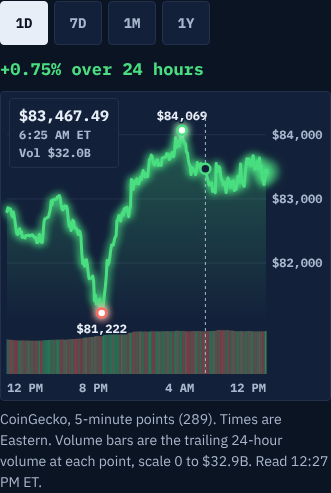
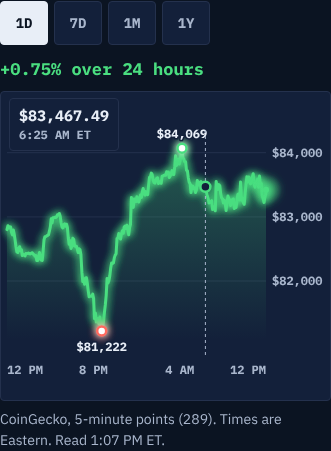
Sprint 6.4, Jack's four fixes: volume on 1M and 1Y only, smooth averages labeled in the gutter, Top 100 stamp read, clear gap between price and 24h pill

diff --git a/site/assets/coinchart.js b/site/assets/coinchart.js
@@ -8,9 +8,11 @@
      1Y  days=365  daily points      (~366)   one request serves 1M and 1Y
 
    The 50-day and 200-day lines are averages of DAILY closes, so they come from the 366-day
-   series and are drawn on 1M and 1Y only, where they mean something. Volume is the source's
-   trailing-24-hour volume at each point, as muted bars under the price on their own scale,
-   up or down by that point's price against the one before.
+   series and are drawn on 1M and 1Y only, where they mean something. They are drawn as one
+   smooth curve through the daily averages and named in the right gutter beside the price
+   axis, never on the line. Volume bars are drawn on 1M and 1Y only, where each bar is a
+   day's volume; on 1D and 7D the source gives a trailing 24-hour figure at every point, so
+   every bar would be the same height and the window shows none.
 
    The line is Program 7's one style (glow.py): 3 px, a glow, an area fill, the high and low
    as white dots with mono labels, a halo on the last point. It is colored by the chosen
@@ -36,6 +38,7 @@
   if (!id || !stage || !box || !readout || !tabs.length) return;
 
   var DAY = 86400000;
+  var DAILY = { '1m': true, '1y': true };                 /* the windows whose volume is a day's volume */
   var RANGES = {
     '1d': { fetch: 1, label: '24 hours', spacing: '5-minute' },
     '7d': { fetch: 7, label: '7 days', spacing: 'hourly' },
@@ -57,7 +60,6 @@
   }
   function compact(v) {
     var a = Math.abs(v);
-    if (a >= 1e12) return '$' + (v / 1e12).toFixed(2) + 'T';
     if (a >= 1e9) return '$' + (v / 1e9).toFixed(1) + 'B';
     if (a >= 1e6) return '$' + (v / 1e6).toFixed(1) + 'M';
     if (a >= 1e3) return '$' + (v / 1e3).toFixed(0) + 'K';
@@ -80,6 +82,20 @@
     if (r === '1d') return fmtDate(ms, { hour: 'numeric', minute: '2-digit' }) + ' ET';
     if (r === '7d') return fmtDate(ms, { month: 'short', day: 'numeric', hour: 'numeric' }) + ' ET';
     return fmtDate(ms, { month: 'short', day: 'numeric', year: 'numeric' }, true);
+  }
+  function last(a) { for (var i = a.length - 1; i >= 0; i--) if (a[i] !== null) return a[i]; return null; }
+  /* a smooth path through points, monotone in y (Fritsch-Carlson), so it never overshoots a turn */
+  function smooth(q) {
+    var n = q.length, h = [], m = [], t = [], i, f = function (v) { return v.toFixed(1); }, d = 'M' + f(q[0][0]) + ',' + f(q[0][1]);
+    for (i = 0; i < n - 1; i++) { h.push(q[i + 1][0] - q[i][0] || 1e-6); m.push((q[i + 1][1] - q[i][1]) / h[i]); }
+    t[0] = m[0]; t[n - 1] = m[n - 2];
+    for (i = 1; i < n - 1; i++) t[i] = m[i - 1] * m[i] <= 0 ? 0 : (m[i - 1] + m[i]) / 2;
+    for (i = 0; i < n - 1; i++) {
+      var a = t[i] / m[i], b = t[i + 1] / m[i], s = a * a + b * b, k = s > 9 ? 3 / Math.sqrt(s) : 1, w = h[i] / 3;
+      d += 'C' + f(q[i][0] + w) + ',' + f(q[i][1] + k * a * m[i] * w) + ' ' + f(q[i + 1][0] - w) + ',' +
+        f(q[i + 1][1] - k * b * m[i] * w) + ' ' + f(q[i + 1][0]) + ',' + f(q[i + 1][1]);
+    }
+    return d;
   }
   function dir(a, b) { return b > a ? 'up' : b < a ? 'down' : 'flat'; }
 
@@ -162,7 +178,8 @@
 
   function draw(s) {
     var W = Math.max(280, Math.floor(stage.clientWidth));
-    var R = 64, L = 6, T = 20, HP = W < 480 ? 210 : 280, GAP = 8, HV = 44, AX = 26;
+    var hasMA = !!(s.ma50 || s.ma200), hasVol = DAILY[s.r];
+    var R = hasMA ? 100 : 64, L = 6, T = 20, HP = W < 480 ? 210 : 280, GAP = hasVol ? 8 : 16, HV = hasVol ? 44 : 0, AX = 26;
     var H = T + HP + GAP + HV + AX, PW = W - L - R;
     var lo = Math.min.apply(null, s.y), hi = Math.max.apply(null, s.y);
     [s.ma50, s.ma200].forEach(function (m) {
@@ -174,7 +191,7 @@
     var t0 = s.t[0], t1 = s.t[s.n - 1], tspan = (t1 - t0) || 1;
     var X = function (t) { return L + (t - t0) / tspan * PW; };
     var Y = function (v) { return T + HP - (v - pl) / (ph - pl) * HP; };
-    var d = s.dir === 'flat' ? 'flat' : s.dir;
+    var d = s.dir;
     var svg = el('svg', { 'class': 'cc-svg', width: W, height: H, viewBox: '0 0 ' + W + ' ' + H,
       role: 'img', 'aria-label': RANGES[s.r].label + ' of price. Low ' + money(Math.min.apply(null, s.y)) +
         ', high ' + money(Math.max.apply(null, s.y)) + ', latest ' + money(s.y[s.n - 1]) + ', ' + pct(s.chg) + '.' });
@@ -207,7 +224,7 @@
     var vg = el('g', { 'class': 'cc-vol' });
     var vmax = 0;
     for (i = 0; i < s.n; i++) if (s.v[i] !== null && s.v[i] > vmax) vmax = s.v[i];
-    if (vmax > 0) {
+    if (hasVol && vmax > 0) {
       var bw = Math.max(1, Math.min(8, PW / s.n * 0.72)), vy = T + HP + GAP;
       for (i = 0; i < s.n; i++) {
         if (s.v[i] === null) continue;
@@ -219,24 +236,28 @@
     }
     svg.appendChild(vg);
 
-    /* the 50-day and 200-day lines, 1M and 1Y only: thin, dashed, named at their right end */
+    /* the 50-day and 200-day lines, 1M and 1Y only: thin, dashed, one smooth curve through the daily
+       averages, and named in the right gutter beside the price axis, never on the line */
     var labels = [];
     [['50', s.ma50], ['200', s.ma200]].forEach(function (pair) {
       var m = pair[1]; if (!m) return;
-      var mp = [], last = null;
+      var mp = [], lastV = null;
       for (var k = 0; k < m.length; k++) {
         if (m[k] === null) continue;
-        mp.push(X(s.t[k]).toFixed(1) + ',' + Y(m[k]).toFixed(1)); last = m[k];
+        mp.push([X(s.t[k]), Y(m[k])]); lastV = m[k];
       }
       if (mp.length < 2) return;
-      svg.appendChild(el('polyline', { 'class': 'cc-ma m' + pair[0], 'data-ma': pair[0], points: mp.join(' ') }));
-      labels.push({ n: pair[0], y: Y(last), v: last });
+      svg.appendChild(el('path', { 'class': 'cc-ma m' + pair[0], 'data-ma': pair[0], fill: 'none', d: smooth(mp) }));
+      labels.push({ n: pair[0], y: mp[mp.length - 1][1], v: lastV });
     });
     labels.sort(function (a, b) { return a.y - b.y; });
     labels.forEach(function (lb, k) {
-      var ly = k === 0 ? lb.y - 6 : Math.max(lb.y + 14, labels[0].y + 14);
-      svg.appendChild(el('text', { 'class': 'cc-ma-label', x: L + PW - 4, y: ly.toFixed(1),
-        'text-anchor': 'end' }, lb.n + '-day ' + money(lb.v, lb.v >= 100 ? 0 : 2)));
+      var ly = lb.y + 4;
+      if (k > 0) ly = Math.max(ly, labels[k - 1].ly + 15);
+      ly = Math.min(Math.max(ly, T + 8), T + HP - 2);
+      lb.ly = ly;
+      svg.appendChild(el('text', { 'class': 'cc-ma-label m' + lb.n, x: L + PW + 66,
+        y: ly.toFixed(1) }, lb.n + 'D'));
     });
 
     /* the line itself (glow.py's style) and its marks */
@@ -264,7 +285,7 @@
     });
 
     /* dates along the bottom: three or four labels, from the data's own times */
-    var nl = W < 460 ? 4 : 5, ay = T + HP + GAP + HV + 18;
+    var nl = PW < 240 ? 3 : W < 460 ? 4 : 5, ay = T + HP + GAP + HV + 18;
     for (i = 0; i < nl; i++) {
       var f = i / (nl - 1), tt = t0 + tspan * f;
       svg.appendChild(el('text', { 'class': 'cc-ax', 'data-axis': 'date', x: (L + PW * f).toFixed(1), y: ay,
@@ -304,8 +325,13 @@
     var r = RANGES[s.r], vmax = 0, i;
     for (i = 0; i < s.n; i++) if (s.v[i] !== null && s.v[i] > vmax) vmax = s.v[i];
     var t = 'CoinGecko, ' + r.spacing + ' points (' + s.n + '). Times are Eastern. ';
-    if (vmax) t += 'Volume bars are the trailing 24-hour volume at each point, scale 0 to ' + compact(vmax) + '. ';
-    if (s.ma50 || s.ma200) t += 'Averages are of daily closes. ';
+    if (DAILY[s.r] && vmax) t += 'Volume bars are each day\u2019s volume, scale 0 to ' + compact(vmax) + '. ';
+    if (s.ma50 || s.ma200) {
+      t += 'Dashed lines are averages of daily closes';
+      if (s.ma50) t += ', 50-day ' + money(s.ma50[s.n - 1], 0);
+      if (s.ma200) t += ', 200-day ' + money(s.ma200[s.n - 1], 0);
+      t += '. ';
+    }
     t += 'Read ' + fmtDate(Date.now(), { hour: 'numeric', minute: '2-digit' }) + ' ET.';
     cap.textContent = t;
   }
@@ -319,7 +345,7 @@
     cr.setAttribute('x1', p[0]); cr.setAttribute('x2', p[0]); cr.style.display = '';
     dot.setAttribute('cx', p[0]); dot.setAttribute('cy', p[1]); dot.style.display = '';
     var t = '<b>' + money(s.y[i]) + '</b><span>' + readDate(s.t[i], s.r) + '</span>' +
-      (s.v[i] !== null ? '<span>Vol ' + compact(s.v[i]) + '</span>' : '');
+      (DAILY[s.r] && s.v[i] !== null ? '<span>Vol ' + compact(s.v[i]) + '</span>' : '');
     readout.innerHTML = t; readout.hidden = false;
     /* beside the finger, never under it, and always inside the box */
     var rw = readout.offsetWidth, bw = box.clientWidth;
@@ -352,7 +378,6 @@
     if (!G.s) return;
     var k = ev.key, big = ev.shiftKey ? 10 : 1, n = idx < 0 ? G.s.n - 1 : idx;
     if (k === 'ArrowLeft') n -= big; else if (k === 'ArrowRight') n += big;
-    else if (k === 'PageDown') n -= 10; else if (k === 'PageUp') n += 10;
     else if (k === 'Home') n = 0; else if (k === 'End') n = G.s.n - 1;
     else if (k === 'Escape') { hide(); return; } else return;
     ev.preventDefault(); at(n);

diff --git a/site/assets/site.css b/site/assets/site.css
@@ -1633,12 +1633,13 @@ header.masthead{position:relative;z-index:300}
   .prices-table table{width:100%;table-layout:fixed}
   .prices-table th,.prices-table td{padding-left:5px;padding-right:5px}
   .prices-table th:nth-child(1),.prices-table td:nth-child(1){width:32px;padding-left:0;padding-right:0}
-  .prices-table th:nth-child(3),.prices-table td:nth-child(3){width:74px}
-  .prices-table th:nth-child(4),.prices-table td:nth-child(4){width:64px}
+  .prices-table th:nth-child(3),.prices-table td:nth-child(3){width:90px;text-align:right;padding-left:0;padding-right:12px}
+  .prices-table th:nth-child(4),.prices-table td:nth-child(4){width:66px;padding-left:3px;padding-right:3px}
   .prices-table th:nth-child(5),.prices-table td:nth-child(5){width:62px;padding-right:0}
   .prices-table td.sym2{white-space:normal;line-height:1.25;overflow-wrap:anywhere}
   .prices-table td.sym2 .mut{display:block;font-size:11px}
-  .prices-table td.pnum{font-variant-numeric:tabular-nums;white-space:nowrap;font-size:13px}
+  .prices-table td.pnum{font-variant-numeric:tabular-nums;white-space:nowrap;font-size:12px}
+  .prices-table td.pnum.pn-long{font-size:11px}
 }
 
 /* UX-8: the Chart Master's read, with its glance and its subheads. */

diff --git a/site/assets/system.css b/site/assets/system.css
@@ -468,7 +468,8 @@ body:not(.h-home) .cn-v{font-size:20px}
 .cc-ma{fill:none;stroke-width:1.25;stroke-dasharray:5 4}
 .cc-ma.m50{stroke:var(--muted)}
 .cc-ma.m200{stroke:var(--faint)}
-.cc-ma-label{font:700 12px var(--mono);fill:var(--muted);paint-order:stroke;stroke:var(--card);stroke-width:3px;stroke-linejoin:round}
+.cc-ma-label{font:700 12px var(--mono);fill:var(--muted)}
+.cc-ma-label.m200{fill:var(--faint)}
 .cc-st.up{stop-color:var(--up-line)}
 .cc-st.down{stop-color:var(--down-line)}
 .cc-st.flat{stop-color:var(--ink)}

diff --git a/site_build.py b/site_build.py
@@ -7450,7 +7450,8 @@ def _top100_rows(coins):
             f'<td class="sym2"><a class="t1-a" href="/coins/{esc(_coin_slug(c))}">'
             f'{esc(sym)}<span class="mut"> &middot; '
             f'<span class="t1-name">{esc(nm)}</span></span></a></td>'
-            f'<td class="pnum" data-cell="price" data-val="{c.get("price") or 0}">{esc(_price_fmt(c.get("price")))}</td>'
+            f'<td class="pnum{" pn-long" if len(_price_fmt(c.get("price")) or "") >= 11 else ""}" '
+            f'data-cell="price" data-val="{c.get("price") or 0}">{esc(_price_fmt(c.get("price")))}</td>'
             f'<td data-cell="chg" data-val="{chg if chg is not None else 0}">{chg_html}</td>'
             f'<td class="c-spark">{_cp.row_spark(c.get("spark7d"))}</td>'
             f'<td class="mut c-wide" data-cell="mcap" data-val="{c.get("mcap_usd") or 0}">{esc(fmt_usd(c.get("mcap_usd", 0)))}</td>'
@@ -8813,10 +8814,19 @@ def squeeze_js(src):
     """Strip block comments and indentation from a script, nothing else. coinchart.js is
     written to be read, with its reasons in comments; the page weight rule counts bytes, and
     the comments are a third of them. This changes no token: newlines stay, so semicolon
-    insertion behaves as written, and the file has no comment markers inside strings or
+    insertion behaves as written (newlines are dropped only where none can occur: after
+    "{", ",", "(" and ";", and before "}"), and the file has no comment markers inside strings or
     regexes (scripts/coin_pages_test.py parses the result)."""
     src = re.sub(r"/\*.*?\*/", "", src, flags=re.S)
-    return "\n".join(l for l in (x.strip() for x in src.split("\n")) if l) + "\n"
+    out = ""
+    for l in (x.strip() for x in src.split("\n")):
+        if not l:
+            continue
+        # A newline after "{", ",", "(" or ";" and one before a closing "}" can never be where
+        # semicolon insertion happens, so those are dropped too (no token changes).
+        glue = out == "" or out.endswith(("{", ",", "(", ";")) or l.startswith("}")
+        out += l if glue else "\n" + l
+    return out + "\n"
 
 
 def _squeeze_asset(path):

diff --git a/docs/REPORT-PROGRAM-6-SPRINT-6.4-2026-10-13.md b/docs/REPORT-PROGRAM-6-SPRINT-6.4-2026-10-13.md
@@ -1,6 +1,6 @@
 # Report: Program 6, Sprint 6.4, the coin pages and the Top 100 (13 October 2026)
 
-**Status: built and proven on the local tree, NOT merged. Jack's yes is not in this session.** Everything below that needs a yes or a production read says so.
+**Status: built and proven on the local tree, NOT merged. Jack approved at 12:45 PM ET on 13 October with four fixes (made, section below); his yes on the re-shot closeups is the gate for the merge.** Everything below that needs a yes or a production read says so.
 
 ## Start
[1 lines of base64/hex data omitted]
@@ -20,10 +20,10 @@
 | 7D | `days=7` | 169 | hourly |
 | 1M | the 365-day request, last 30 days | 31 | daily |
 | 1Y | `days=365` | 366 | daily |
-Volume is the source's trailing 24-hour volume at each point (not per interval); the caption says so. The 50-day and 200-day lines are averages of daily closes from the 366-day series, drawn on 1M and 1Y only. The chosen window lives in the script's closure: no storage, no cookie (reload returns to 7D).
+Volume bars are drawn on 1M and 1Y only, where each is a day's volume; on 1D and 7D the source's volume is a trailing 24-hour figure at every point, so none are drawn. The 50-day and 200-day lines are averages of daily closes from the 366-day series, drawn on 1M and 1Y only. The chosen window lives in the script's closure: no storage, no cookie (reload returns to 7D).
 
 ## What was built
-- Chart: 1D/7D/1M/1Y tabs (44 px), Program 7 line (3 px, glow, area, glowing high and low with mono labels, halo on the last point) colored by the window's own change, the printed change beside it from the same series; dashed labeled averages; muted volume bars on their own scale, up/down by close; price labels right in Plex Mono 12 px; four date labels at 375; crosshair readout (price, date, volume) for touch, hover and keyboard (arrows, Shift, Home, End, Esc) that stays inside the box; draws once, whole at once under reduced motion. Built as one shared file.
+- Chart: 1D/7D/1M/1Y tabs (44 px), Program 7 line (3 px, glow, area, glowing high and low with mono labels, halo on the last point) colored by the window's own change, the printed change beside it from the same series; dashed averages (smooth, named in the right gutter, 1M and 1Y only); muted volume bars on their own scale, up/down by close (1M and 1Y only); price labels right in Plex Mono 12 px; four date labels at 375; crosshair readout (price, date, volume) for touch, hover and keyboard (arrows, Shift, Home, End, Esc) that stays inside the box; draws once, whole at once under reduced motion. Built as one shared file.
 - Coin page order under the chart: readings grid (seven tiles via `tile.render`; 200-day distance and RSI only for the Board's seven coins, absent elsewhere), Chart Master card (coin's own sentences when the read names it; levels otherwise; dated; says how old past one day), the coin's wire items newest first with sources (published stories follow as "Checked by the desk"), cold-storage card (same copy as the Board's, shared constants), unlock line (only where `data/calendar/unlocks.json` has a future dated entry with source and read date), then the supply rows the page already had.
 - Top 100: search (no network), "No coin matches" with a clear button, plain 7-day line per row colored by its own seven days (no glow), columns at 375 rank/coin/price/24h/line, cap and volume at 768+, whole row is the link (stretched anchor), and the sort buttons now work (they had no script).
 
@@ -43,7 +43,7 @@ To get inside 10%: the script's comments and indentation are stripped at publish
 
 ## Contact sheets (for Jack)
 `shots/program7-6.4/`: `contact-coins_btc.jpg`, `contact-coins_eth.jpg`, `contact-coins_apt.jpg` (Aptos, rank 76, the bottom-half small coin), `contact-pulse_prices.jpg`: before beside after, 375 and 1440, light and dark. `contact-btc-chart-closeups.jpg` and the four `btc-chart-{1d,1y}-375-{light,dark}.png`: crosshair shown once. Charts drew from recorded CoinGecko fixtures (`fixtures/coingecko/`).
-Known visual limits: on 1Y the average labels can sit across the price line; the Chart Master card in the repo is the Oct 8 read, so it shows its age note until tonight's read.
+Known visual limits: the Chart Master card in the repo is the Oct 8 read, so it shows its age note until tonight's read.
 
 ## gcm-newsroom
 - `morning-dispatch` (two commits, `a36716a`, `f78497f`) was a straight descendant of main `00d7123`. Tests passed first: both slot-trigger node tests, `test_citations`, `test_claims`, `test_gates`, `test_parents_chrome`.
@@ -55,6 +55,17 @@ Known visual limits: on 1Y the average labels can sit across the price line; the
 
 ## Merge hash, production reads, counts
 None: not merged.
+
+## Jack's four fixes, 13 October 2026 (approved 12:45 PM ET, four changes before the merge)
+1. **Volume bars only on 1M and 1Y.** `coinchart.js` draws them only where each bar is a day's volume (`DAILY`). 1D and 7D have no bars and no volume strip, the crosshair readout shows no volume there, and the caption says nothing of volume there (on 1M and 1Y it says "each day's volume"). Without the strip the low label would have landed on the date row, so those windows keep a 16 px gap above the dates.
+2. **The averages.** Each is one smooth curve (a monotone cubic through the daily averages, so it never overshoots a turn), not a polyline. The labels, "50D" and "200D", are in the right gutter beside the price axis, in their own column to the right of the price labels, kept 15 px apart, inside the chart box, and never on a line. The gutter is 100 px on 1M and 1Y (64 px elsewhere); at 375 those two windows show three date labels where the others show four. The latest values of both averages are in the caption. Nothing is clipped at 375 (checked: every label inside the svg).
+3. **The Top 100's stamp.** Read, not assumed. `netlify.toml`'s build command runs `market_pulse.py` before `site_build.py`; `movers` (the Top 100) is one of its six core sections, and the page's "As of" is `generated_utc`, the oldest core section, so a Top 100 that failed to refresh would pull the stamp back and mark it stale instead of passing as current. Production read at 12:43 PM ET: `/pulse/prices` carries build `135138e` and reads "As of 12:11 PM ET on Oct 13." (the noon fallback's build), with no stale mark. So production refreshes the Top 100 at every build and no change was needed. The Oct 11 in my shots was the committed `pulse.json` (23:12Z Oct 11): this sandbox cannot reach CoinGecko, so the local build had nothing newer to fall back to. The shots of this round carry that same stamp for the same reason.
+4. **Price and 24h pill at 375.** The cause was width: the price (13 px) overflowed its 74 px cell by up to 20 px into the pill's cell (the widest, a $0.00000549 coin, is 94 px). The price cell is now 90 px, right-aligned, 12 px font (11 px for a price of 11 characters or more, class `pn-long`), with 12 px kept clear on its right; the pill's cell is 66 px, wider than its widest pill (60 px). Measured on all 100 rows at 375: the least gap between the end of the price and the start of the pill is at least 12 px (test `top100-gap`). The coin column lost 4 px.
+
+**Tests, red then green.** The five new or changed checks ran first against the tree before the fixes: red on all of them (averages as polylines, labels on the plot, volume on 1D and 7D, readout volume on 7D, a gap of -9.6 px). Green after: `coin_pages_test.py` passes (every browser check, 101 pages at 375 without sideways scroll). New checks: `chart-averages` (curve, gutter), `chart-volume`, `top100-gap`; `chart-readout` now asks for volume on 1Y and none on 7D.
+**Weight.** The fixes first pushed the BTC page to +10.3%, over the limit. Cut: unused code in `coinchart.js` (the trillions branch, PageUp and PageDown, which Shift-arrows already cover), a tighter `smooth`, and `squeeze_js` now also drops a newline where none can matter (after `{`, `,`, `(`, `;` and before `}`; `node --check` clean). Now, uncompressed at 375 against the baselines above: `/coins/btc` 238,178 (+9.94%), `/coins/eth` 238,311 (+9.96%), `/coins/apt` 236,020 (+9.77%), `/pulse/prices` 325,491. **The margin is 124, 89 and 495 bytes; the next addition to a coin page breaks the rule.** The real fix is stripping CSS comments at publish: `site.css` carries 35 KB of comments and `system.css` 5 KB, all served. That changes every page, so it was not done unasked.
+**Shots.** `shots/program7-6.4/`: `btc-chart-{1d,1y}-375-{light,dark}.png`, `contact-btc-chart-closeups.jpg`, `top100-375-{light,dark}.png`, `contact-pulse_prices.jpg`. The three `contact-coins_*.jpg` sheets are from before these fixes (their 7D chart still shows bars) and were not redone.
+**Not changed, seen:** long coin names wrap inside the coin column at 375 ("Hyperliqui d" on HYPE), as they did before.
 
 Shell date at close: see the last line.
 Shell date at close: Tue Oct 13 2026, 12:30 PM ET

diff --git a/docs/HANDOFF.md b/docs/HANDOFF.md
@@ -245,11 +245,13 @@ not piped into `tail` and assumed.
 
 **Jack's rulings, Tuesday 13 October 2026:** (1) Sprint 6.4 runs now, on Program 7's look: its tokens, type, glow rules and color truth (each chart colored by its own window; a figure's color matches the change printed beside it). (2) October 7 still stands: the wire stays in re-count order, and the checked item is never pinned to the top.
 
+**Jack approved 12:45 PM ET with four fixes (all made, in the report): volume bars on 1M and 1Y only; the 50 and 200-day lines smooth, labeled in the right gutter; the Top 100 stamp read in production (it refreshes at every build, nothing to change); a clear gap between price and 24h pill at 375. Pages are within the weight limit by 89 to 495 bytes (BTC +9.94%, ETH +9.96%); stripping CSS comments at publish (40 KB) is the real fix and was not done unasked. Re-shot, waiting for his yes.**
+
 **State: BUILT, NOT MERGED.** Branch `claude/sweet-wright-s8j2we` (the brief named it `coin-pages`; the cloud session was bound to this branch name). Waits for Jack's yes on `shots/program7-6.4/`; one real merge commit after it, outside 6:30 to 8:15 PM ET. Report: `docs/REPORT-PROGRAM-6-SPRINT-6.4-2026-10-13.md`.
 
 **What exists:** `site/assets/coinchart.js` (the chart, one shared file, comments squeezed at publish by `site_build.squeeze_js`), `coinpage.py` (row sparkline, readings tiles, Chart Master card, wire stories, unlock line), seven new `tile.READINGS` (`coin-price`, `coin-24h`, `coin-7d`, `coin-cap`, `coin-volume`, `coin-200d`, `rsi-14`), `COLD_*` constants (one copy, two looks), search and sort on the Top 100 (`TOP100_JS`), CSS in `system.css` (`.cc-*`, `.cn-*`, `.coin-*`). Tests: `scripts/coin_pages_test.py` (unit, static, browser) and `scripts/coin_pages_browser.mjs`, in the canary as `_coin_pages_canary`; `scripts/chart_closeups.mjs`; `fixtures/coingecko/` (recorded market_chart for bitcoin, ethereum, aptos).
 
-**Traps:** CoinGecko's `total_volumes` is a trailing 24-hour figure at every point, so volume bars are that, said in the caption. The 50 and 200-day lines are averages of daily closes, so 1M and 1Y both read the 365-day series. The sort buttons on the Top 100 had no script since the live JS was removed; they work now. Playwright cannot click a cell whose row link overlays it: the row test taps by coordinates. The K-7 and data-contract canaries read the old coin-page markup and were rewritten to the new one, same invariants.
+**Traps:** CoinGecko's `total_volumes` is a trailing 24-hour figure at every point, so on 1D and 7D every bar is the same height: no bars there, bars on 1M and 1Y (daily volumes). The 50 and 200-day lines are averages of daily closes, so 1M and 1Y both read the 365-day series. The sort buttons on the Top 100 had no script since the live JS was removed; they work now. Playwright cannot click a cell whose row link overlays it: the row test taps by coordinates. The K-7 and data-contract canaries read the old coin-page markup and were rewritten to the new one, same invariants.
 
 ---
 
